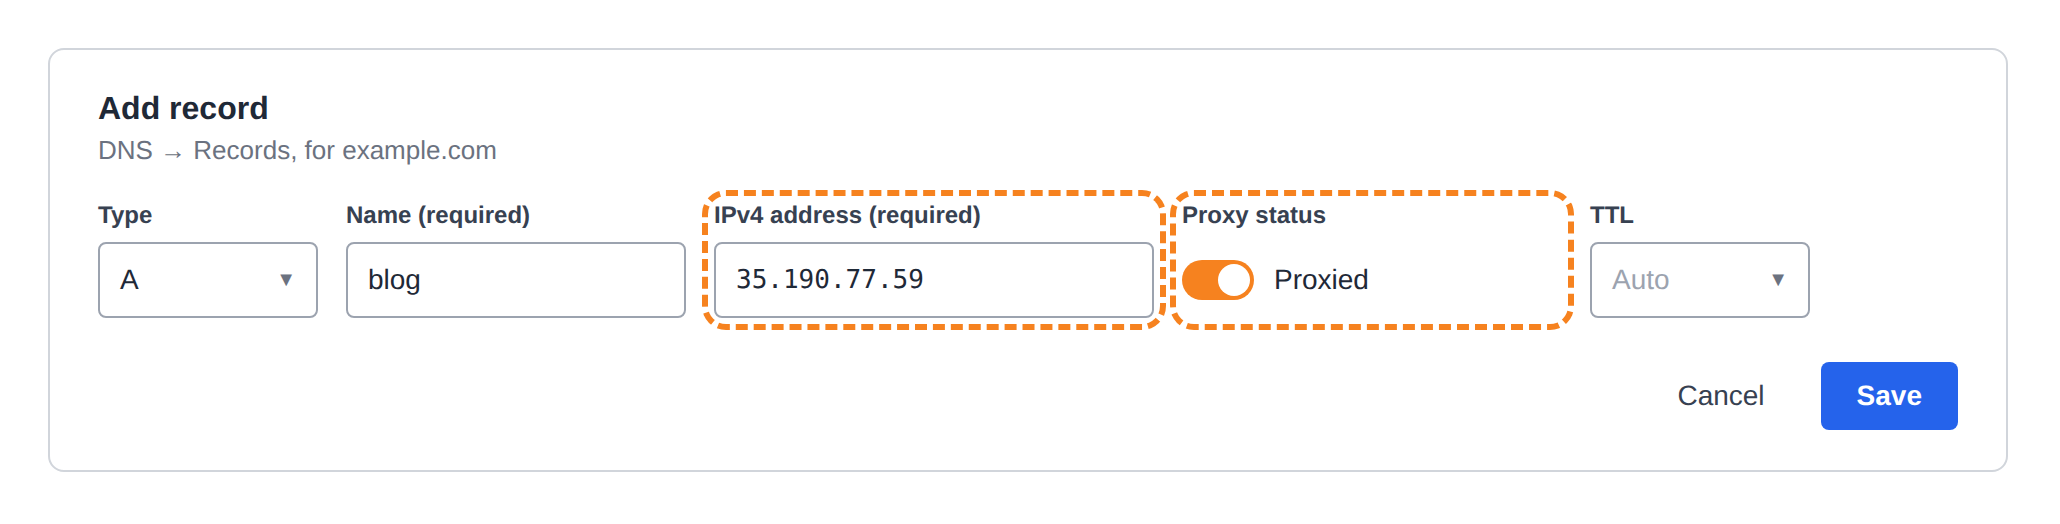
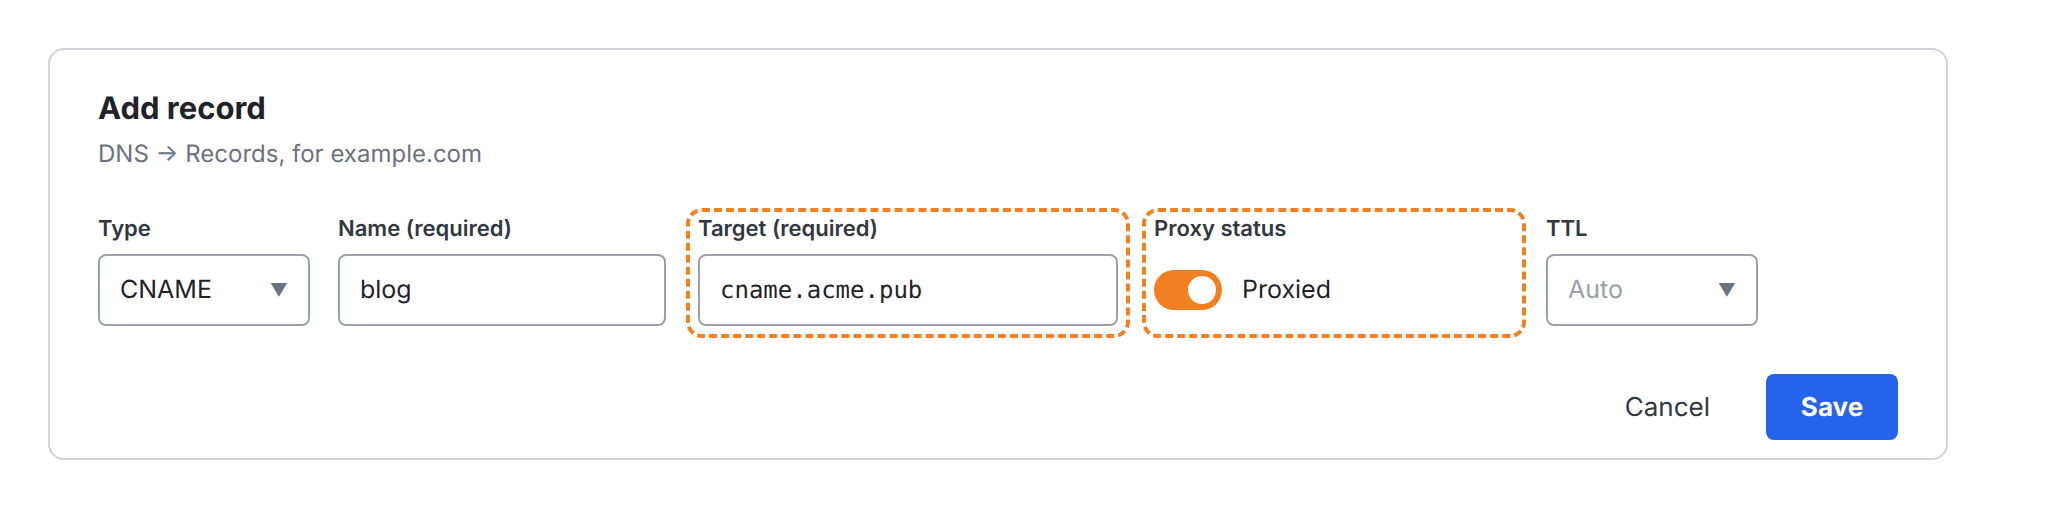
docs: connect a domain with a CNAME to cname.acme.pub
The record is now a proxied CNAME to cname.acme.pub instead of an A record
to our IP, and the domain check runs under /api_acme/.well-known/acme-site/.
Updates the steps, the failure table and the two mockups.

diff --git a/help/sites/connect-your-domain.md b/help/sites/connect-your-domain.md
@@ -25,15 +25,17 @@ In the Cloudflare dashboard, open your domain and go to **DNS** → **Records**.
 
 | Field | Value |
 |---|---|
-| **Type** | `A` |
+| **Type** | `CNAME` |
 | **Name** | The subdomain, such as `blog`. Use `@` for the bare domain. |
-| **IPv4 address** | `35.190.77.59` |
+| **Target** | `cname.acme.pub` |
 | **Proxy status** | **Proxied** (the orange cloud is on) |
 | **TTL** | Auto |
 
 Click **Save**.
 
-![Add an A record for blog, pointing at 35.190.77.59, proxied](/img/help/sites/connect-your-domain/add-dns-record.png)
+A CNAME works for a bare domain too: Cloudflare resolves it at the root for you (CNAME flattening), so there's nothing extra to set up.
+
+![Add a CNAME record for blog, pointing at cname.acme.pub, proxied](/img/help/sites/connect-your-domain/add-dns-record.png)
 
 :::caution
 Keep the orange cloud on. With the proxy off (**DNS only**, a grey cloud), visitors reach our server directly, without Cloudflare's certificate, and the connection fails.
@@ -61,9 +63,9 @@ When you save the domain in ACME.BOT, we send one test request to it to confirm 
 
 - **Bot Fight Mode** (**Security** → **Bots**). Turn it off while you connect the domain. Cloudflare doesn't let a rule exempt a path from Bot Fight Mode.
 - **Under Attack mode** (**Overview**, under **Quick Actions**). Turn it off while you connect the domain.
-- **WAF custom rules that challenge or block visitors** (**Security** → **WAF**). Add a custom rule with the action **Skip** for requests whose **URI Path** starts with `/.well-known/acme-site/`, and put it above your challenge rules.
+- **WAF custom rules that challenge or block visitors** (**Security** → **WAF**). Add a custom rule with the action **Skip** for requests whose **URI Path** starts with `/api_acme/.well-known/acme-site/`, and put it above your challenge rules.
 
-![A WAF custom rule that skips /.well-known/acme-site/](/img/help/sites/connect-your-domain/waf-skip-rule.png)
+![A WAF custom rule that skips /api_acme/.well-known/acme-site/](/img/help/sites/connect-your-domain/waf-skip-rule.png)
 
 ## Connect the domain in ACME.BOT
 
@@ -85,11 +87,11 @@ Open `https://blog.example.com`. You should see your site. If you turned off bot
 
 | Message | What to do |
 |---|---|
-| We couldn't find a DNS record for this domain. | The `A` record from step 1 is missing, or it isn't live yet. Check the name, wait a minute and save again. |
+| We couldn't find a DNS record for this domain. | The `CNAME` record from step 1 is missing, or it isn't live yet. Check the name, wait a minute and save again. |
 | This domain points at us directly. | The record is **DNS only**. Turn on the orange cloud (step 1). |
 | Cloudflare is checking our certificate strictly. | The SSL/TLS mode is **Full (strict)**. Set it to **Full** for this hostname (step 2). |
-| Cloudflare's bot protection blocked our check. | Turn off Bot Fight Mode or Under Attack mode, or skip `/.well-known/acme-site/*` in your WAF rules (step 3). |
-| Cloudflare couldn't reach our servers. | The `A` record points at the wrong address. Set it to `35.190.77.59`. |
+| Cloudflare's bot protection blocked our check. | Turn off Bot Fight Mode or Under Attack mode, or skip `/api_acme/.well-known/acme-site/*` in your WAF rules (step 3). |
+| Cloudflare couldn't reach our servers. | The `CNAME` record points at the wrong target. Set it to `cname.acme.pub`. |
 | This domain doesn't reach our servers. | The record is missing, wrong, or not proxied, or the domain isn't on Cloudflare. Recheck steps 1 and 2. If you've only just added the domain to Cloudflare, wait a few minutes for its certificate and try again. |
 | That domain is connected to another of your sites. | Clear it on that site first (see below), then add it here. |
 | That domain is already in use. | Another account has connected this domain. If it's yours, contact support. |
